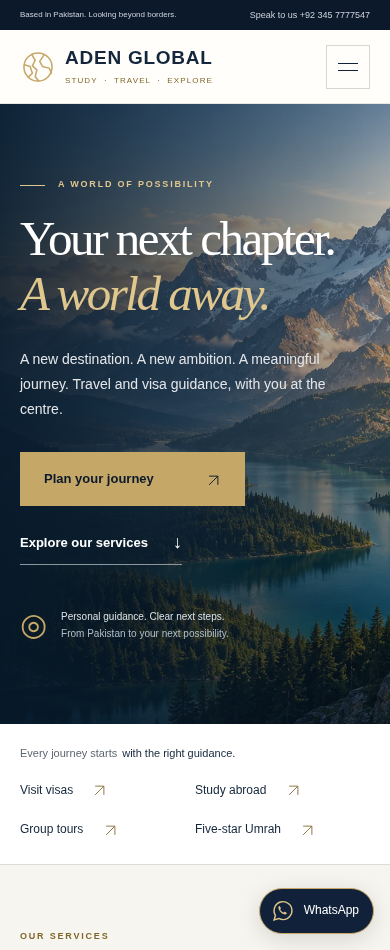
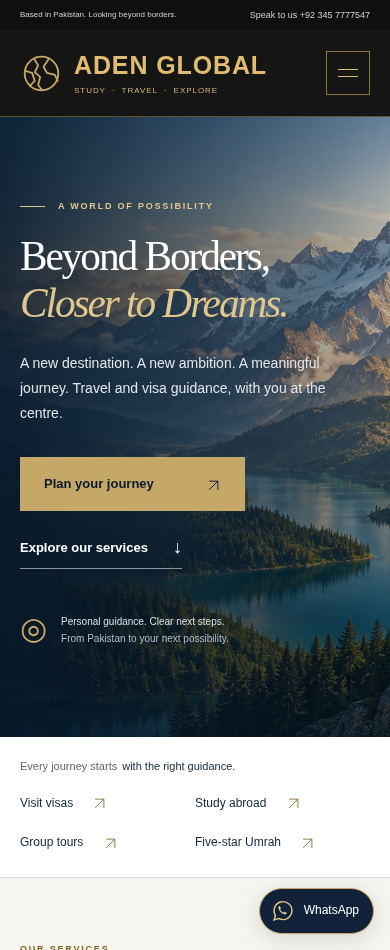
Refresh ADEN GLOBAL masthead with black and gold branding

diff --git a/artifacts/adenglobal-preview.html b/artifacts/adenglobal-preview.html
@@ -3,10 +3,10 @@
 <head>
   <meta charset="utf-8">
   <meta name="viewport" content="width=device-width, initial-scale=1">
-  <meta name="theme-color" content="#102139">
+  <meta name="theme-color" content="#151513">
   <title>ADEN GLOBAL | Travel & Visa Consultancy in Pakistan</title>
   <meta name="description" content="Plan your next journey with ADEN GLOBAL. Pakistan-based consultancy for visit visas, student visas, group tours and five-star Umrah. Enquire on WhatsApp.">
-  <meta property="og:title" content="ADEN GLOBAL | Your next chapter starts here">
+  <meta property="og:title" content="ADEN GLOBAL | Beyond Borders, Closer to Dreams.">
   <meta property="og:description" content="Thoughtful guidance for travel, study and Umrah. Speak with Muhammad Imran Jamal about your plans.">
   <meta property="og:type" content="website">
[1 lines of base64/hex data omitted]
@@ -20,6 +20,12 @@
 @media(max-width:560px){html{scroll-padding-top:85px}section[id],article[id]{scroll-margin-top:95px}.utility .container>span{font-size:8px;letter-spacing:0}.utility a{font-size:9px;letter-spacing:0}.utility a span{display:none}.utility .container{min-height:30px}.header-inner{height:73px}.header nav{top:73px}.brand>span{font-size:19px}.brand{gap:9px}.brand small{letter-spacing:.14em}.section{padding:65px 0}.hero{min-height:620px}.hero h1{font-size:49px;line-height:1.12;letter-spacing:-.05em}.hero-content{padding-top:57px;padding-bottom:55px}.eyebrow{font-size:9px;margin-bottom:20px}.hero-intro{max-width:315px;font-size:14px}.desktop-break{display:none}.hero-actions{align-items:flex-start;flex-direction:column;gap:22px}.hero-actions .button{min-width:225px}.hero-note{margin-top:34px;font-size:10px}.hero-image{background-position:64% center}.service-strip .container{padding:20px 0 14px}.service-strip a{width:50%;font-size:12px;padding:10px 0}.service-strip a span{margin-left:16px}.service-strip .container>span{margin-bottom:8px}.section-heading{display:block;margin-bottom:30px}.section-heading>p{max-width:100%;margin:20px 0 0}.section h2{font-size:38px}.service-grid{gap:12px}.service-card{padding:21px 16px 17px}.service-card h3{font-size:24px}.card-top{gap:4px;margin-bottom:25px;align-items:flex-start;flex-direction:column}.card-number{font-size:7px;margin-top:7px}.service-card p{font-size:12px;line-height:1.8;margin-bottom:23px}.card-link{font-size:10px}.about-grid{grid-template-columns:1fr;gap:38px}.about-art{min-height:355px;padding:32px}.about-art p{font-size:42px;margin-top:35px}.about-art>img{right:10px;top:10px;width:140px;height:140px}.art-top{top:27px}.art-bottom{left:32px;right:32px;bottom:24px;padding-top:15px}.about-copy>p:not(.eyebrow){font-size:14px}.about-copy h2{font-size:38px}.service-detail{grid-template-columns:1fr;gap:24px;padding:32px 0}.service-detail h3{font-size:28px}.detail-support{padding:24px}.process-grid{grid-template-columns:1fr;gap:20px;margin-top:34px}.process-grid>div{padding-top:20px;display:grid;grid-template-columns:40px 1fr;column-gap:16px}.process-grid span{grid-row:1/3}.process-grid h3{margin:4px 0 10px;font-size:18px}.process-grid p{max-width:none;grid-column:2}.process-footnote{margin-top:10px}.faq-grid{grid-template-columns:1fr;gap:25px}.faq-grid h2 br{display:none}summary{font-size:13px;padding-top:20px;padding-bottom:20px}.contact-grid{grid-template-columns:1fr;gap:25px}.contact-copy>p:not(.eyebrow){max-width:none}.contact-tip{margin-top:25px;max-width:none;padding-top:20px}.contact-tip p{margin-bottom:0}.enquiry-form{padding:25px 20px}.form-row{grid-template-columns:1fr}.enquiry-form h3{font-size:25px}.field input,.field select,.field textarea{font-size:16px}.footer{padding-top:38px;padding-bottom:95px}.footer-top{display:block;padding-bottom:25px}.footer-top>p{margin-top:25px}.footer-top nav{margin-top:25px;gap:25px}.footer-bottom{display:block;font-size:10px;line-height:2.1}.footer-bottom p{margin-bottom:5px}.footer-bottom a{display:inline-block;margin-top:8px}.floating-whatsapp{bottom:16px;right:16px;padding:9px 14px 9px 10px}.floating-whatsapp svg{width:26px;height:26px}}
 @media(max-width:370px){.service-grid{grid-template-columns:1fr}.service-card{padding:25px}.card-top{flex-direction:row}.service-card h3 br{display:none}.service-card h3{font-size:27px}.card-number{font-size:9px}.service-card p{font-size:13px}.hero h1{font-size:44px}.utility .container>span{max-width:130px;line-height:1.3}}
 .no-js .menu-toggle{display:none}@media(max-width:800px){.no-js .header-inner{height:auto;flex-wrap:wrap;padding-top:15px}.no-js .header nav{position:static;display:flex;flex-wrap:wrap;padding:10px 0;box-shadow:none;border:0;gap:16px}.no-js .header nav .button{display:none}}
+/* Black and warm gold masthead, inspired by the supplied logo reference. */
+.header{background:#151513;color:#eee5d3;border-bottom:1px solid #635333}.header-inner{height:108px}.header .brand{gap:15px}.header .brand>span{font-size:34px;color:#dfbc70;letter-spacing:.065em}.header .brand img{width:58px;height:58px}.header .brand small{color:#d2b57b;font-size:10px;letter-spacing:.24em;margin-top:9px}.header nav>a:hover{color:#e7c77f}.header nav .button{background:#dfbc70;border-color:#dfbc70;color:#151513}.header nav .button:hover{background:#f0d395}.header :focus-visible{outline-color:#f0d395}.utility{background:#0e0f0e}.footer .brand>span{color:#dfbc70}
+@media(min-width:1001px) and (max-width:1100px){.header .brand>span{font-size:29px}.header .brand img{width:50px;height:50px}.header nav{gap:20px}}
+@media(max-width:1000px){.header-inner{height:90px;gap:15px}.header .brand>span{font-size:29px}.header .brand img{width:50px;height:50px}.menu-toggle{display:flex;flex-shrink:0;flex-direction:column;justify-content:center;gap:6px;width:44px;height:44px;background:transparent;border:1px solid #8b7445;padding:11px}.menu-toggle span{height:1px;width:20px;background:#dfbc70;transition:transform .2s}.menu-toggle[aria-expanded=true] span:first-child{transform:translateY(3.5px) rotate(45deg)}.menu-toggle[aria-expanded=true] span:last-child{transform:translateY(-3.5px) rotate(-45deg)}.header nav{display:none;position:absolute;top:90px;left:0;right:0;padding:18px 20px 24px;background:#151513;border-bottom:1px solid #635333;box-shadow:0 12px 18px #0003}.header nav.is-open{display:flex;flex-direction:column;align-items:stretch;gap:6px}.header nav>a:not(.button){padding:12px}.header nav .button{margin-top:7px}.no-js .header-inner{height:auto;flex-wrap:wrap;padding-top:15px}.no-js .header nav{position:static;display:flex;flex-wrap:wrap;padding:10px 0;box-shadow:none;border:0;gap:16px}.no-js .header nav .button{display:none}}
+@media(max-width:560px){.header-inner{height:86px;gap:12px}.header nav{top:86px}.header .brand{gap:11px}.header .brand img{width:43px;height:43px}.header .brand>span{font-size:25px;letter-spacing:.035em}.header .brand small{font-size:8px;letter-spacing:.12em;margin-top:7px}.hero h1{font-size:clamp(36px,10.6vw,49px)}}
+@media(max-width:370px){.header .brand{gap:8px}.header .brand img{width:34px;height:34px}.header .brand>span{font-size:21px}.header .brand small{font-size:7px;letter-spacing:.07em}.header-inner{gap:10px}.hero h1{font-size:36px}}
 @media(prefers-reduced-motion:reduce){html{scroll-behavior:auto}*,*:before,*:after{transition:none!important;animation:none!important}}
 @media print{.utility,.header,.floating-whatsapp,.hero-actions,.enquiry-form,.footer nav{display:none}.hero{min-height:0;background:white;color:var(--ink)}.hero-image,.hero-caption,.hero:after{display:none}.hero h1 em,.hero-intro,.hero-note,.hero-note strong{color:var(--ink)}.section{padding:25px 0}.container{width:100%}.service-grid{grid-template-columns:repeat(2,1fr)}.about-grid,.contact-grid,.faq-grid{display:block}.about-art{display:none}.process-section{background:white;color:var(--ink)}.process-grid p,.process-section .section-heading>p,.process-footnote{color:var(--ink)}details>p{display:block}.service-detail{break-inside:avoid}.footer{background:white;color:var(--ink);padding:20px 0}}
 </style>
@@ -38,7 +44,7 @@
   <main id="main">
     <section class="hero" id="home" aria-labelledby="hero-title">
       <div class="hero-image" role="img" aria-label="Illustrative mountain valley and turquoise alpine lake"></div>
-      <div class="container hero-content"><p class="eyebrow light"><span></span> A WORLD OF POSSIBILITY</p><h1 id="hero-title">Your next chapter.<br><em>A world away.</em></h1><p class="hero-intro">A new destination. A new ambition. A meaningful journey.<br class="desktop-break"> Travel and visa guidance, with you at the centre.</p><div class="hero-actions"><a class="button button-gold" href="#contact">Plan your journey <span aria-hidden="true"><svg class="arrow" viewBox="0 0 24 24" fill="none" aria-hidden="true"><path d="M5 19 19 5M5 5h14v14" stroke="currentColor" stroke-width="1.5"/></svg></span></a><a class="text-link light" href="#services">Explore our services <span aria-hidden="true">↓</span></a></div><div class="hero-note"><span class="small-globe" aria-hidden="true">◎</span><span>Personal guidance. Clear next steps.<br><strong>From Pakistan to your next possibility.</strong></span></div></div>
+      <div class="container hero-content"><p class="eyebrow light"><span></span> A WORLD OF POSSIBILITY</p><h1 id="hero-title">Beyond Borders,<br><em>Closer to Dreams.</em></h1><p class="hero-intro">A new destination. A new ambition. A meaningful journey.<br class="desktop-break"> Travel and visa guidance, with you at the centre.</p><div class="hero-actions"><a class="button button-gold" href="#contact">Plan your journey <span aria-hidden="true"><svg class="arrow" viewBox="0 0 24 24" fill="none" aria-hidden="true"><path d="M5 19 19 5M5 5h14v14" stroke="currentColor" stroke-width="1.5"/></svg></span></a><a class="text-link light" href="#services">Explore our services <span aria-hidden="true">↓</span></a></div><div class="hero-note"><span class="small-globe" aria-hidden="true">◎</span><span>Personal guidance. Clear next steps.<br><strong>From Pakistan to your next possibility.</strong></span></div></div>
       <div class="hero-caption">A little further from the everyday.</div>
     </section>
     <div class="service-strip"><div class="container"><span>Every journey starts<br><strong>with the right guidance.</strong></span><a href="#visit">Visit visas <span aria-hidden="true"><svg class="arrow" viewBox="0 0 24 24" fill="none" aria-hidden="true"><path d="M5 19 19 5M5 5h14v14" stroke="currentColor" stroke-width="1.5"/></svg></span></a><a href="#student">Study abroad <span aria-hidden="true"><svg class="arrow" viewBox="0 0 24 24" fill="none" aria-hidden="true"><path d="M5 19 19 5M5 5h14v14" stroke="currentColor" stroke-width="1.5"/></svg></span></a><a href="#groups">Group tours <span aria-hidden="true"><svg class="arrow" viewBox="0 0 24 24" fill="none" aria-hidden="true"><path d="M5 19 19 5M5 5h14v14" stroke="currentColor" stroke-width="1.5"/></svg></span></a><a href="#umrah">Five-star Umrah <span aria-hidden="true"><svg class="arrow" viewBox="0 0 24 24" fill="none" aria-hidden="true"><path d="M5 19 19 5M5 5h14v14" stroke="currentColor" stroke-width="1.5"/></svg></span></a></div></div>
@@ -96,7 +102,7 @@ document.addEventListener('keydown', event => {
 document.addEventListener('click', event => {
   if (!event.target.closest('.header')) closeMenu();
 });
-window.matchMedia('(min-width: 801px)').addEventListener('change', closeMenu);
+window.matchMedia('(min-width: 1001px)').addEventListener('change', closeMenu);
 document.querySelector('#year').textContent = new Date().getFullYear();
 
 const form = document.querySelector('#enquiry-form');

diff --git a/styles.css b/styles.css
@@ -8,5 +8,11 @@
 @media(max-width:560px){html{scroll-padding-top:85px}section[id],article[id]{scroll-margin-top:95px}.utility .container>span{font-size:8px;letter-spacing:0}.utility a{font-size:9px;letter-spacing:0}.utility a span{display:none}.utility .container{min-height:30px}.header-inner{height:73px}.header nav{top:73px}.brand>span{font-size:19px}.brand{gap:9px}.brand small{letter-spacing:.14em}.section{padding:65px 0}.hero{min-height:620px}.hero h1{font-size:49px;line-height:1.12;letter-spacing:-.05em}.hero-content{padding-top:57px;padding-bottom:55px}.eyebrow{font-size:9px;margin-bottom:20px}.hero-intro{max-width:315px;font-size:14px}.desktop-break{display:none}.hero-actions{align-items:flex-start;flex-direction:column;gap:22px}.hero-actions .button{min-width:225px}.hero-note{margin-top:34px;font-size:10px}.hero-image{background-position:64% center}.service-strip .container{padding:20px 0 14px}.service-strip a{width:50%;font-size:12px;padding:10px 0}.service-strip a span{margin-left:16px}.service-strip .container>span{margin-bottom:8px}.section-heading{display:block;margin-bottom:30px}.section-heading>p{max-width:100%;margin:20px 0 0}.section h2{font-size:38px}.service-grid{gap:12px}.service-card{padding:21px 16px 17px}.service-card h3{font-size:24px}.card-top{gap:4px;margin-bottom:25px;align-items:flex-start;flex-direction:column}.card-number{font-size:7px;margin-top:7px}.service-card p{font-size:12px;line-height:1.8;margin-bottom:23px}.card-link{font-size:10px}.about-grid{grid-template-columns:1fr;gap:38px}.about-art{min-height:355px;padding:32px}.about-art p{font-size:42px;margin-top:35px}.about-art>img{right:10px;top:10px;width:140px;height:140px}.art-top{top:27px}.art-bottom{left:32px;right:32px;bottom:24px;padding-top:15px}.about-copy>p:not(.eyebrow){font-size:14px}.about-copy h2{font-size:38px}.service-detail{grid-template-columns:1fr;gap:24px;padding:32px 0}.service-detail h3{font-size:28px}.detail-support{padding:24px}.process-grid{grid-template-columns:1fr;gap:20px;margin-top:34px}.process-grid>div{padding-top:20px;display:grid;grid-template-columns:40px 1fr;column-gap:16px}.process-grid span{grid-row:1/3}.process-grid h3{margin:4px 0 10px;font-size:18px}.process-grid p{max-width:none;grid-column:2}.process-footnote{margin-top:10px}.faq-grid{grid-template-columns:1fr;gap:25px}.faq-grid h2 br{display:none}summary{font-size:13px;padding-top:20px;padding-bottom:20px}.contact-grid{grid-template-columns:1fr;gap:25px}.contact-copy>p:not(.eyebrow){max-width:none}.contact-tip{margin-top:25px;max-width:none;padding-top:20px}.contact-tip p{margin-bottom:0}.enquiry-form{padding:25px 20px}.form-row{grid-template-columns:1fr}.enquiry-form h3{font-size:25px}.field input,.field select,.field textarea{font-size:16px}.footer{padding-top:38px;padding-bottom:95px}.footer-top{display:block;padding-bottom:25px}.footer-top>p{margin-top:25px}.footer-top nav{margin-top:25px;gap:25px}.footer-bottom{display:block;font-size:10px;line-height:2.1}.footer-bottom p{margin-bottom:5px}.footer-bottom a{display:inline-block;margin-top:8px}.floating-whatsapp{bottom:16px;right:16px;padding:9px 14px 9px 10px}.floating-whatsapp svg{width:26px;height:26px}}
 @media(max-width:370px){.service-grid{grid-template-columns:1fr}.service-card{padding:25px}.card-top{flex-direction:row}.service-card h3 br{display:none}.service-card h3{font-size:27px}.card-number{font-size:9px}.service-card p{font-size:13px}.hero h1{font-size:44px}.utility .container>span{max-width:130px;line-height:1.3}}
 .no-js .menu-toggle{display:none}@media(max-width:800px){.no-js .header-inner{height:auto;flex-wrap:wrap;padding-top:15px}.no-js .header nav{position:static;display:flex;flex-wrap:wrap;padding:10px 0;box-shadow:none;border:0;gap:16px}.no-js .header nav .button{display:none}}
+/* Black and warm gold masthead, inspired by the supplied logo reference. */
+.header{background:#151513;color:#eee5d3;border-bottom:1px solid #635333}.header-inner{height:108px}.header .brand{gap:15px}.header .brand>span{font-size:34px;color:#dfbc70;letter-spacing:.065em}.header .brand img{width:58px;height:58px}.header .brand small{color:#d2b57b;font-size:10px;letter-spacing:.24em;margin-top:9px}.header nav>a:hover{color:#e7c77f}.header nav .button{background:#dfbc70;border-color:#dfbc70;color:#151513}.header nav .button:hover{background:#f0d395}.header :focus-visible{outline-color:#f0d395}.utility{background:#0e0f0e}.footer .brand>span{color:#dfbc70}
+@media(min-width:1001px) and (max-width:1100px){.header .brand>span{font-size:29px}.header .brand img{width:50px;height:50px}.header nav{gap:20px}}
+@media(max-width:1000px){.header-inner{height:90px;gap:15px}.header .brand>span{font-size:29px}.header .brand img{width:50px;height:50px}.menu-toggle{display:flex;flex-shrink:0;flex-direction:column;justify-content:center;gap:6px;width:44px;height:44px;background:transparent;border:1px solid #8b7445;padding:11px}.menu-toggle span{height:1px;width:20px;background:#dfbc70;transition:transform .2s}.menu-toggle[aria-expanded=true] span:first-child{transform:translateY(3.5px) rotate(45deg)}.menu-toggle[aria-expanded=true] span:last-child{transform:translateY(-3.5px) rotate(-45deg)}.header nav{display:none;position:absolute;top:90px;left:0;right:0;padding:18px 20px 24px;background:#151513;border-bottom:1px solid #635333;box-shadow:0 12px 18px #0003}.header nav.is-open{display:flex;flex-direction:column;align-items:stretch;gap:6px}.header nav>a:not(.button){padding:12px}.header nav .button{margin-top:7px}.no-js .header-inner{height:auto;flex-wrap:wrap;padding-top:15px}.no-js .header nav{position:static;display:flex;flex-wrap:wrap;padding:10px 0;box-shadow:none;border:0;gap:16px}.no-js .header nav .button{display:none}}
+@media(max-width:560px){.header-inner{height:86px;gap:12px}.header nav{top:86px}.header .brand{gap:11px}.header .brand img{width:43px;height:43px}.header .brand>span{font-size:25px;letter-spacing:.035em}.header .brand small{font-size:8px;letter-spacing:.12em;margin-top:7px}.hero h1{font-size:clamp(36px,10.6vw,49px)}}
+@media(max-width:370px){.header .brand{gap:8px}.header .brand img{width:34px;height:34px}.header .brand>span{font-size:21px}.header .brand small{font-size:7px;letter-spacing:.07em}.header-inner{gap:10px}.hero h1{font-size:36px}}
 @media(prefers-reduced-motion:reduce){html{scroll-behavior:auto}*,*:before,*:after{transition:none!important;animation:none!important}}
 @media print{.utility,.header,.floating-whatsapp,.hero-actions,.enquiry-form,.footer nav{display:none}.hero{min-height:0;background:white;color:var(--ink)}.hero-image,.hero-caption,.hero:after{display:none}.hero h1 em,.hero-intro,.hero-note,.hero-note strong{color:var(--ink)}.section{padding:25px 0}.container{width:100%}.service-grid{grid-template-columns:repeat(2,1fr)}.about-grid,.contact-grid,.faq-grid{display:block}.about-art{display:none}.process-section{background:white;color:var(--ink)}.process-grid p,.process-section .section-heading>p,.process-footnote{color:var(--ink)}details>p{display:block}.service-detail{break-inside:avoid}.footer{background:white;color:var(--ink);padding:20px 0}}

diff --git a/index.html b/index.html
@@ -3,10 +3,10 @@
 <head>
   <meta charset="utf-8">
   <meta name="viewport" content="width=device-width, initial-scale=1">
-  <meta name="theme-color" content="#102139">
+  <meta name="theme-color" content="#151513">
   <title>ADEN GLOBAL | Travel & Visa Consultancy in Pakistan</title>
   <meta name="description" content="Plan your next journey with ADEN GLOBAL. Pakistan-based consultancy for visit visas, student visas, group tours and five-star Umrah. Enquire on WhatsApp.">
-  <meta property="og:title" content="ADEN GLOBAL | Your next chapter starts here">
+  <meta property="og:title" content="ADEN GLOBAL | Beyond Borders, Closer to Dreams.">
   <meta property="og:description" content="Thoughtful guidance for travel, study and Umrah. Speak with Muhammad Imran Jamal about your plans.">
   <meta property="og:type" content="website">
   <link rel="icon" type="image/svg+xml" href="assets/mark.svg">
@@ -26,7 +26,7 @@
   <main id="main">
     <section class="hero" id="home" aria-labelledby="hero-title">
       <div class="hero-image" role="img" aria-label="Illustrative mountain valley and turquoise alpine lake"></div>
-      <div class="container hero-content"><p class="eyebrow light"><span></span> A WORLD OF POSSIBILITY</p><h1 id="hero-title">Your next chapter.<br><em>A world away.</em></h1><p class="hero-intro">A new destination. A new ambition. A meaningful journey.<br class="desktop-break"> Travel and visa guidance, with you at the centre.</p><div class="hero-actions"><a class="button button-gold" href="#contact">Plan your journey <span aria-hidden="true"><svg class="arrow" viewBox="0 0 24 24" fill="none" aria-hidden="true"><path d="M5 19 19 5M5 5h14v14" stroke="currentColor" stroke-width="1.5"/></svg></span></a><a class="text-link light" href="#services">Explore our services <span aria-hidden="true">↓</span></a></div><div class="hero-note"><span class="small-globe" aria-hidden="true">◎</span><span>Personal guidance. Clear next steps.<br><strong>From Pakistan to your next possibility.</strong></span></div></div>
+      <div class="container hero-content"><p class="eyebrow light"><span></span> A WORLD OF POSSIBILITY</p><h1 id="hero-title">Beyond Borders,<br><em>Closer to Dreams.</em></h1><p class="hero-intro">A new destination. A new ambition. A meaningful journey.<br class="desktop-break"> Travel and visa guidance, with you at the centre.</p><div class="hero-actions"><a class="button button-gold" href="#contact">Plan your journey <span aria-hidden="true"><svg class="arrow" viewBox="0 0 24 24" fill="none" aria-hidden="true"><path d="M5 19 19 5M5 5h14v14" stroke="currentColor" stroke-width="1.5"/></svg></span></a><a class="text-link light" href="#services">Explore our services <span aria-hidden="true">↓</span></a></div><div class="hero-note"><span class="small-globe" aria-hidden="true">◎</span><span>Personal guidance. Clear next steps.<br><strong>From Pakistan to your next possibility.</strong></span></div></div>
       <div class="hero-caption">A little further from the everyday.</div>
     </section>
     <div class="service-strip"><div class="container"><span>Every journey starts<br><strong>with the right guidance.</strong></span><a href="#visit">Visit visas <span aria-hidden="true"><svg class="arrow" viewBox="0 0 24 24" fill="none" aria-hidden="true"><path d="M5 19 19 5M5 5h14v14" stroke="currentColor" stroke-width="1.5"/></svg></span></a><a href="#student">Study abroad <span aria-hidden="true"><svg class="arrow" viewBox="0 0 24 24" fill="none" aria-hidden="true"><path d="M5 19 19 5M5 5h14v14" stroke="currentColor" stroke-width="1.5"/></svg></span></a><a href="#groups">Group tours <span aria-hidden="true"><svg class="arrow" viewBox="0 0 24 24" fill="none" aria-hidden="true"><path d="M5 19 19 5M5 5h14v14" stroke="currentColor" stroke-width="1.5"/></svg></span></a><a href="#umrah">Five-star Umrah <span aria-hidden="true"><svg class="arrow" viewBox="0 0 24 24" fill="none" aria-hidden="true"><path d="M5 19 19 5M5 5h14v14" stroke="currentColor" stroke-width="1.5"/></svg></span></a></div></div>

diff --git a/script.js b/script.js
@@ -24,7 +24,7 @@ document.addEventListener('keydown', event => {
 document.addEventListener('click', event => {
   if (!event.target.closest('.header')) closeMenu();
 });
-window.matchMedia('(min-width: 801px)').addEventListener('change', closeMenu);
+window.matchMedia('(min-width: 1001px)').addEventListener('change', closeMenu);
 document.querySelector('#year').textContent = new Date().getFullYear();
 
 const form = document.querySelector('#enquiry-form');
